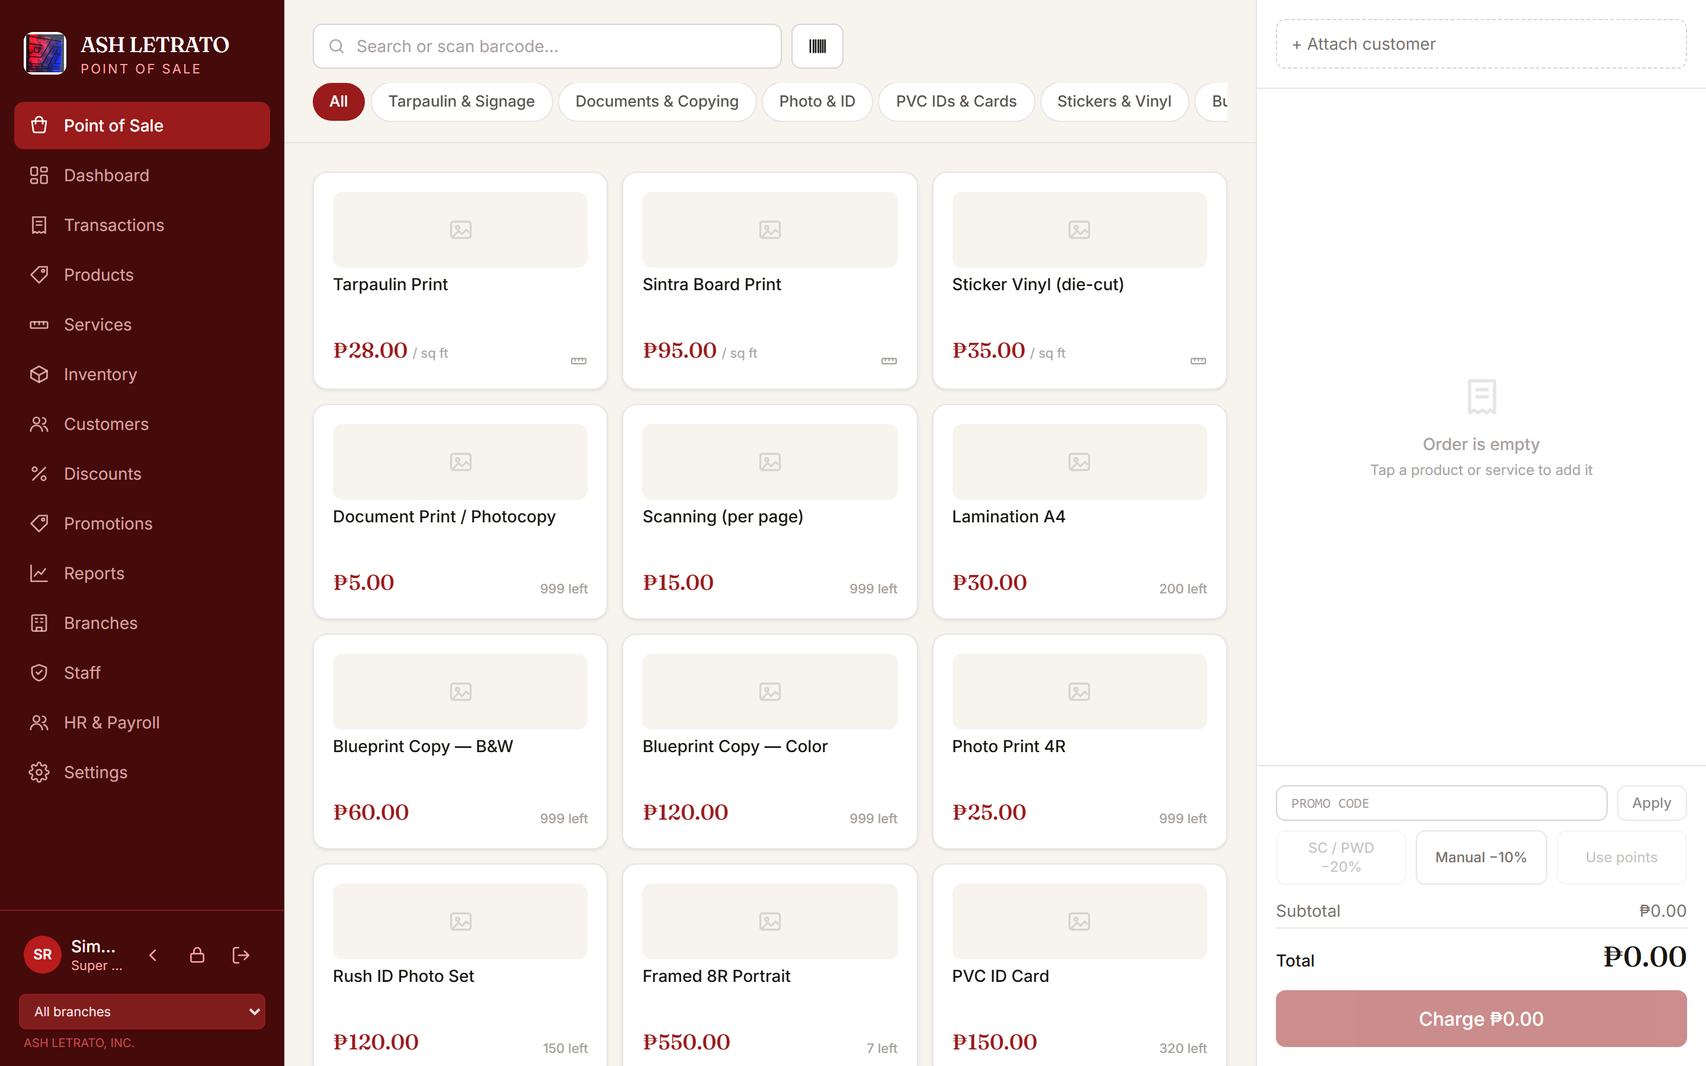
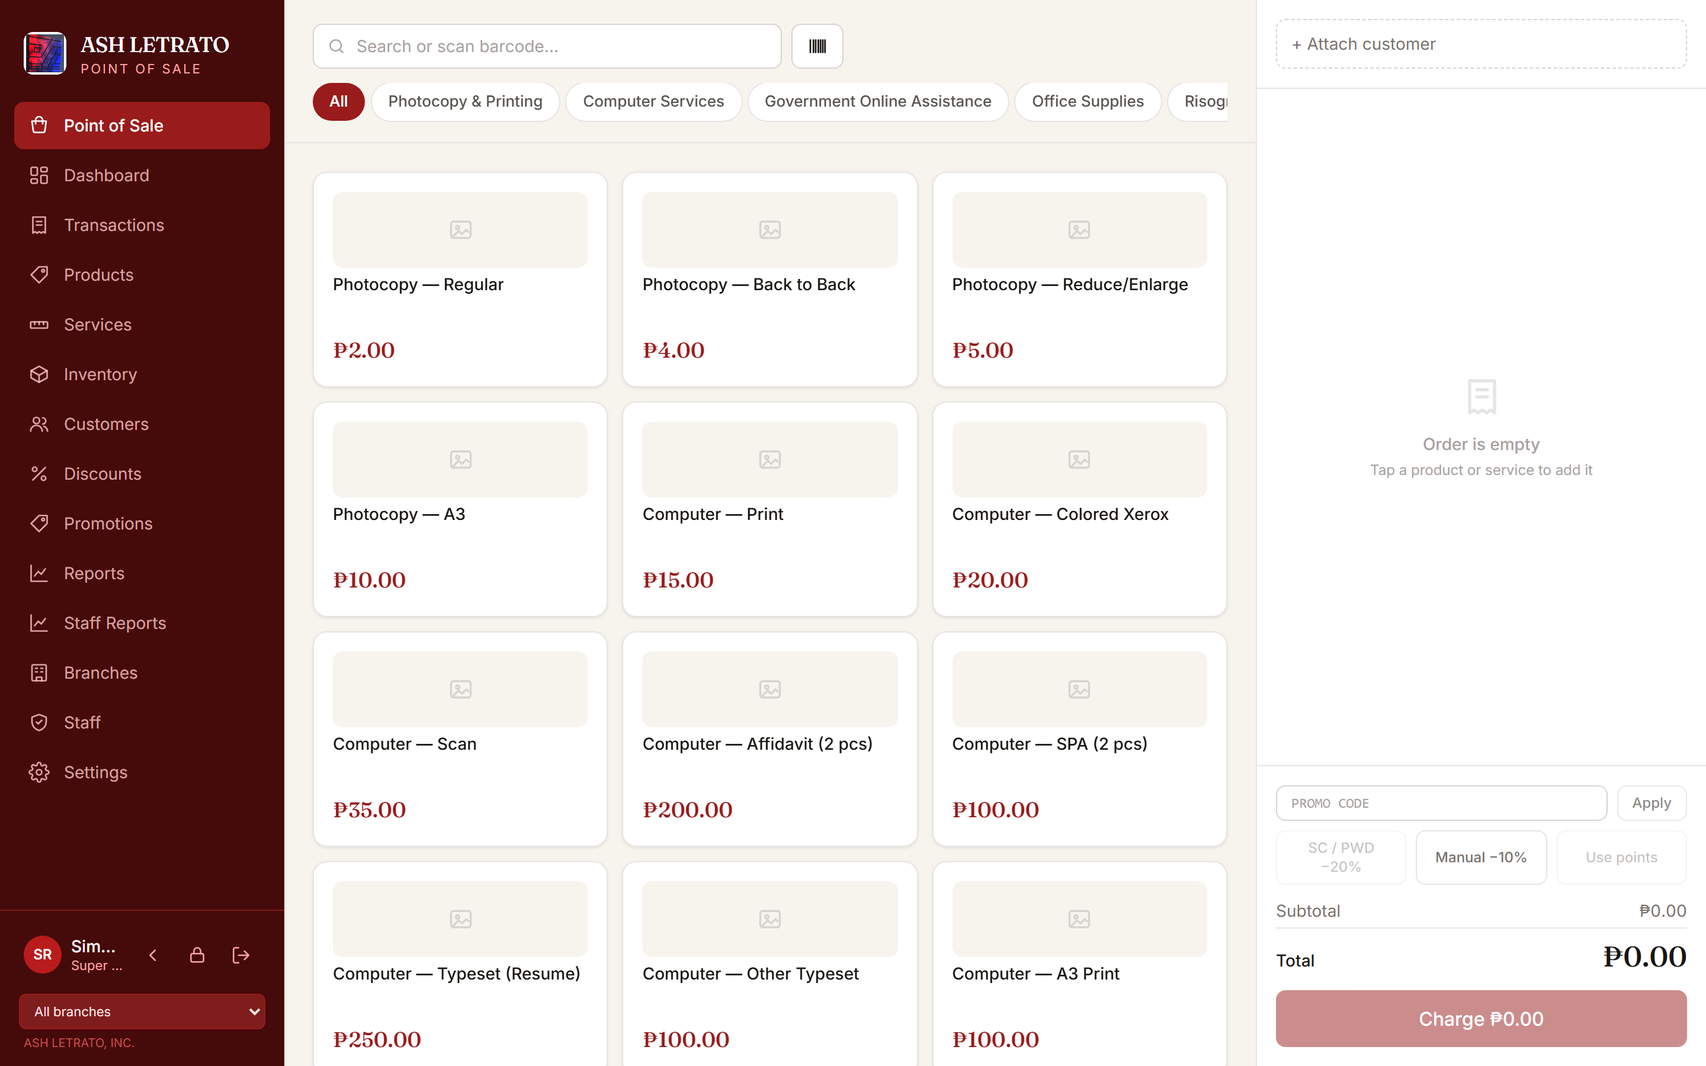
Correct the site details and refresh the screenshots
The homepage now lists Android 7.0 as the minimum (the app's minSdk is
24), shows all four staff PINs including Pia's, drops the stale v1.0
label, and marks Production as an optional module. The sample receipt
and the presentation's example copy use items from the owner's price
list. The presentation counts 14 modules and no longer describes
Production as always on. All 13 screenshots are recaptured from the
current build with sample data in a temporary browser profile.

Generated with [Devin](https://devin.ai)

diff --git a/presentation.html b/presentation.html
@@ -118,9 +118,9 @@
 <section class="slide center on" data-title="Title">
   <img class="logo-lg" src="icon.png" alt="ASH LETRATO logo" />
   <h1>ASH LETRATO <em>POS</em></h1>
-  <p class="tagline">A complete point-of-sale system for a digital printing business — register, inventory, production, and staff. Runs fully offline on the devices you already own.</p>
+  <p class="tagline">A complete point-of-sale system for a digital printing business — register, inventory, and staff. Runs fully offline on the devices you already own.</p>
   <div class="meta-row">
-    <span class="pill"><b>15</b> modules</span>
+    <span class="pill"><b>14</b> modules</span>
     <span class="pill"><b>3</b> platforms — Android · Windows · iOS</span>
     <span class="pill"><b>0</b> internet required</span>
     <span class="pill"><b>4</b> staff roles</span>
@@ -135,7 +135,7 @@
       <h2>Point of Sale</h2>
       <ul class="pts">
         <li><p><b>Sell in two taps</b> — touch catalog organized by category, with instant search and camera barcode scanning.</p></li>
-        <li><p><b>Area pricing built in</b> — tarpaulins, vinyl and boards bill by the square foot; sizes enter at the line.</p></li>
+        <li><p><b>Priced like a print shop</b> — per page, per ream, per set; quantities enter at the line.</p></li>
         <li><p><b>Every tender</b> — cash, GCash, Maya, card; discounts, loyalty redemption, and notary fees applied automatically.</p></li>
         <li><p><b>Made for shared counters</b> — staff sign in with a 4-digit PIN and the till auto-locks when idle.</p></li>
       </ul>
@@ -185,7 +185,7 @@
       <p class="k">Sellable goods</p>
       <h2>Products</h2>
       <ul class="pts">
-        <li><p><b>Merch with real stock</b> — mugs, shirts, totes track units left on the shelf.</p></li>
+        <li><p><b>Stock you can count</b> — pens, envelopes and folders track units left on the shelf.</p></li>
         <li><p><b>Barcodes &amp; photos</b> — every item can carry a code and an image for faster picking.</p></li>
         <li><p><b>Materials linked</b> — products can consume inventory automatically at sale time.</p></li>
       </ul>
@@ -201,9 +201,9 @@
       <p class="k">Billed work</p>
       <h2>Services</h2>
       <ul class="pts">
-        <li><p><b>Priced like a print shop thinks</b> — per square foot, per page, per set — not forced into unit pricing.</p></li>
-        <li><p><b>Consumption recipes</b> — a 4×6 tarp pulls vinyl and ink from stock the moment it sells.</p></li>
-        <li><p><b>Machine-tracked work</b> — punching and bind-prep jobs flow into Production for counting.</p></li>
+        <li><p><b>Priced like a print shop thinks</b> — per page, per ream, per set — not forced into unit pricing.</p></li>
+        <li><p><b>Consumption recipes</b> — a ream of bond paper pulls 500 sheets from stock the moment it sells.</p></li>
+        <li><p><b>Every job is a sale</b> — each billed service lands in the sales ledger with its own receipt line.</p></li>
       </ul>
     </div>
     <div class="shot"><img src="screenshots/services.png" alt="Services screen" /></div>
@@ -217,7 +217,7 @@
       <p class="k">Materials under control</p>
       <h2>Inventory</h2>
       <ul class="pts">
-        <li><p><b>Per-branch stock</b> — vinyl at Caloocan is not vinyl at Greenhills; each branch counts its own.</p></li>
+        <li><p><b>Per-branch stock</b> — bond paper at Caloocan is not bond paper at Greenhills; each branch counts its own.</p></li>
         <li><p><b>Transfers</b> — moving stock between branches is a logged, reversible operation.</p></li>
         <li><p><b>Stock counts</b> — physical counts write corrections automatically with a movement record.</p></li>
         <li><p><b>Movement ledger</b> — every sheet in and out is a row: who, what, why, where.</p></li>
@@ -355,17 +355,17 @@
   var NOTES = [
     // 1 — Title
     ['<p>Thanks for making time — I\'ll keep this practical and you\'ll see the real working app the whole way through, not slides of mockups.</p>',
-     '<p>This is ASH LETRATO POS — point of sale, production tracking, inventory, staff and reports in one system. It runs on what you already own: a tablet at the counter, a PC in the office, a phone in your pocket. Android app, Windows installer, iPhone/iPad app — same system, same data format.</p>',
-     '<p>Three things to hold onto through the demo: <strong>it works fully offline</strong> — brownout or dead wifi, the till keeps selling. <strong>It\'s built for a print shop</strong> — services priced per square foot, per page, per set, not just canned goods. And <strong>every action has a name on it</strong> — nothing happens anonymously.</p>',
+     '<p>This is ASH LETRATO POS — point of sale, inventory, staff and reports in one system. It runs on what you already own: a tablet at the counter, a PC in the office, a phone in your pocket. Android app, Windows installer, iPhone/iPad app — same system, same data format.</p>',
+     '<p>Three things to hold onto through the demo: <strong>it works fully offline</strong> — brownout or dead wifi, the till keeps selling. <strong>It\'s built for a print shop</strong> — services priced per page, per ream, per set, not just canned goods. And <strong>every action has a name on it</strong> — nothing happens anonymously.</p>',
      '<p><em>Ask before moving on:</em> "Quick one before I dive in — how are you ringing up sales today, and what\'s the most annoying part of it?" — then refer back to their answer at the relevant slide.</p>'],
     // 2 — POS
     ['<p>This is the screen your staff will touch a hundred times a day, so it\'s designed for fingers: big product tiles, big buttons, everything reachable with a thumb on a tablet held at the counter.</p>',
-     '<p>Selling a service: tap Tarpaulin, type width and height — say 4 by 6 feet — and the price computes itself at your per-square-foot rate. No calculator, no price chart taped to the wall. Photocopying works the same way per page; ID packages per set.</p>',
-     '<p>For barcoded goods — mugs, shirts, packaged items — the tablet\'s camera is the scanner. No extra hardware to buy. Scan and it lands in the cart.</p>',
+     '<p>Selling a service: tap Photocopy, type the pages and copies — say 120 pages — and the price computes itself at your per-page rate. No calculator, no price chart taped to the wall. Bond paper is priced per ream; ID packages per set.</p>',
+     '<p>For barcoded goods — pens, folders, packaged items — the tablet\'s camera is the scanner. No extra hardware to buy. Scan and it lands in the cart.</p>',
      '<p>At payment: cash with automatic change computation and quick-tap bill amounts, plus GCash, Maya and card. Discounts — senior, PWD, promo codes — apply here with the correct math built in.</p>',
      '<p>And when staff step away, the register locks itself after a set time and needs that person\'s PIN to reopen — so the till is never left open under someone else\'s name.</p>'],
     // 3 — Dashboard
-    ['<p>This is what you check with morning coffee: today\'s revenue, transaction count and average ticket; the last seven days as a trend line so you see direction at a glance; your top products ranked; and anything running low on stock — all on one screen.</p>',
+    ['<p>This is what you check with morning coffee: today\'s revenue and transaction count; the last seven days as a trend line so you see direction at a glance; your top products ranked; and anything running low on stock — all on one screen.</p>',
      '<p>Everything here is live — ring a sale at the register and this chart moves. There\'s no end-of-day report to wait for, nothing to export first.</p>',
      '<p>And it\'s branch-aware: if you have three locations, the owner flips between branches or sees all of them at once, while a branch manager only ever sees their own shop\'s numbers.</p>',
      '<p><em>If they ask "is this real data?"</em> — yes, everything in this demo is the actual app running, and the numbers update as transactions happen.</p>'],
@@ -374,15 +374,15 @@
      '<p>Now the part that protects you: a cashier cannot void or refund a sale alone. The app demands a supervisor\'s PIN on the spot, and the transaction record permanently shows who approved it and why. That\'s the classic way register money leaks — fake voids — and it\'s closed off.</p>',
      '<p>When a refund does happen, it\'s complete: the stock goes back on the shelf, materials are restored to inventory, the customer\'s loyalty points come back, and the audit trail records the whole thing. A voided sale can\'t be refunded a second time — the system won\'t allow the double-count.</p>'],
     // 5 — Products
-    ['<p>Your sellable goods — mugs, shirts, tote bags, supplies — each with photo, price, barcode, and a real stock count that decrements as items sell.</p>',
-     '<p>Two details worth noting: stock is tracked per branch, so Caloocan\'s shelf count is its own; and a product can be wired to consume raw materials when it sells — sell a printed mug and the blank mug plus the vinyl come off inventory automatically.</p>',
+    ['<p>Your sellable goods — pens, folders, envelopes, supplies — each with photo, price, barcode, and a real stock count that decrements as items sell.</p>',
+     '<p>Two details worth noting: stock is tracked per branch, so Caloocan\'s shelf count is its own; and a product can be wired to consume raw materials when it sells — sell an envelope and the envelope comes off inventory automatically.</p>',
      '<p>Photos make the register visual — new staff find items by picture instead of memorizing a price list.</p>'],
     // 6 — Services
-    ['<p>This is where the system stops being a generic store. Print shops bill by measurement, so services price the way you actually charge: per square foot for tarpaulins and vinyl stickers, per page for photocopying and printing, per set for ID packages, or flat rates where it applies.</p>',
-     '<p>The powerful part is the recipe behind each service. A tarpaulin knows it consumes X square feet of vinyl plus Y ml of ink. Ring up a 4×6 tarp and those exact materials leave inventory automatically — you stop guessing what a job actually cost in materials.</p>',
+    ['<p>This is where the system stops being a generic store. Print shops bill by measurement, so services price the way you actually charge: per page for photocopying and printing, per ream for bond paper, per set for ID packages, or flat rates where it applies.</p>',
+     '<p>The powerful part is the recipe behind each service. A ream of bond paper knows it consumes 500 sheets. Ring up a ream and exactly 500 sheets leave inventory automatically — you stop guessing what a job actually cost in materials.</p>',
      '<p>Change a material\'s cost or a rate and every future quote uses the new math. Your pricing logic lives in one place instead of in someone\'s head.</p>'],
     // 8 — Inventory
-    ['<p>Raw materials — vinyl rolls, ink, boards, PVC sheets, packaging — tracked per branch with live balances. Caloocan\'s stock is fully separate from Greenhills\'.</p>',
+    ['<p>Raw materials — bond paper, envelopes, folders, pens — tracked per branch with live balances. Caloocan\'s stock is fully separate from Greenhills\'.</p>',
      '<p>Four ways stock moves, all built in: receiving new supply, automatic consumption when services and products sell, logged transfers between branches, and physical stock counts — you enter what\'s actually on the shelf and the system writes the correction itself.</p>',
      '<p>Every single movement is a permanent line in the ledger: what moved, how much, who did it, when. There\'s no "adjustments" black hole — shrinkage has to show itself somewhere.</p>'],
     // 9 — Customers
@@ -394,11 +394,11 @@
      '<p>Each code has guardrails — valid date range, minimum spend, usage cap — so a promo can\'t be applied outside its window or abused past its budget.</p>',
      '<p>At the till the cashier just types the code; the discount applies itself and the usage counter ticks up. After the campaign you can see exactly how many times it was used and what it cost you — so the next promo is a decision, not a guess.</p>'],
     // 11 — Reports
-    ['<p>This is where the numbers turn into decisions. Pick any period — today, last week, a custom range — and it\'s compared against the period before it, so you see whether you\'re trending up or down, not just a static total.</p>',
+    ['<p>This is where the numbers turn into decisions. Pick any period — today, the last 7 or 30 days, or a custom range — and it\'s compared against the period before it, so you see whether you\'re trending up or down, not just a static total.</p>',
      '<p>Breakdowns by branch show which location earns and which coasts; top products and services show what to push; payment-method totals show how customers actually pay.</p>',
-     '<p>Everything exports to Excel in one click — that\'s what your accountant gets at month-end, no re-typing. And underneath the charts sits the audit log: every void, refund, discount override, price change and PIN-verified action with a name and timestamp. When something looks off, this is where the answer lives.</p>'],
+     '<p>Everything exports to Excel in one click — that\'s what your accountant gets at month-end, no re-typing. And underneath the charts sits the audit log: every void, refund, stock transfer, stock adjustment and staff access change, with a name and timestamp. When something looks off, this is where the answer lives.</p>'],
     // 12 — Staff & Roles
-    ['<p>Four roles, and they\'re enforced — not just hidden menus. The owner sees everything. A manager runs the floor but can\'t touch staff accounts or system settings. A cashier gets the register, transactions and customers — nothing else. A handler gets the register and production — for staff who run machines but don\'t need the books.</p>',
+    ['<p>Four roles, and they\'re enforced — not just hidden menus. The owner sees everything. A manager runs the floor but can\'t touch staff accounts or system settings. A cashier gets the register, transactions and customers — nothing else. A handler gets the register — for staff who run the till but don\'t need the books.</p>',
      '<p>Here\'s the key for multi-branch owners: every staff login is bound to their branch. A Caloocan cashier literally cannot see Greenhills\' sales — typing the URL doesn\'t work, the route itself refuses them. Only the owner flips between locations.</p>',
      '<p>Security details: PINs are brute-force protected — five wrong attempts locks the account progressively up to fifteen minutes, and that lockout survives closing and reopening the app. Supervisory actions like voids and refunds always demand a supervisor\'s own PIN, on the record.</p>'],
     // 14 — Branches
@@ -406,14 +406,14 @@
      '<p>As the owner, your sidebar has a branch switcher: flip to Caloocan and every screen — dashboard, sales, stock, reports — shows Caloocan\'s world; flip to "All branches" and you see the combined picture.</p>',
      '<p>Open a fourth location? Add it here, create its staff, transfer it some starting stock — it\'s operating the same day with nothing new to install.</p>'],
     // 15 — Settings
-    ['<p>Your business rules, not ours: receipt header and TIN for compliant receipts, VAT rate, senior and PWD discount percentages, loyalty earn and redeem rates, auto-lock timing, machine list.</p>',
+    ['<p>Your business rules, not ours: receipt header and TIN for compliant receipts, VAT rate, senior and PWD discount percentages, loyalty earn and redeem rates, auto-lock timing, and the Production module on or off.</p>',
      '<p>The part that matters for your future: one click exports everything — products, customers, full sales history, staff, settings — to a single file. Restore it on another device and that device is up and running. Your data is yours; there\'s no lock-in, and when you\'re ready to grow into a cloud setup later, the data moves with you instead of starting over.</p>',
      '<p><em>If they ask "where does my data live?"</em> — on the device itself, fully private to your shop, with exports you control. Nothing is sent anywhere.</p>'],
     // 16 — Closing
-    ['<p>That\'s the whole loop: register, production floor, stockroom and back office — one system, working offline, on devices you already own.</p>',
+    ['<p>That\'s the whole loop: register, stockroom and back office — one system, working offline, on devices you already own.</p>',
      '<p>It\'s live right now — owner login on screen, or hand the tablet over and let a staff member try their own PIN. Everything you saw today is the actual running system.</p>',
      '<p>On practicalities: it installs in minutes on a tablet or PC, needs no special hardware — the camera is the barcode scanner — and updates roll out to every device automatically as the system improves.</p>',
-     '<p><em>Close with:</em> "Which part would you want running in your shop first — the register or the production tracking? We can set it up with a real order while we\'re here." — then stay quiet and let them answer.</p>']
+     '<p><em>Close with:</em> "Which part would you want running in your shop first — the register or the inventory? We can set it up with a real order while we\'re here." — then stay quiet and let them answer.</p>']
   ];
 
   var slides = document.querySelectorAll('.slide');

diff --git a/index.html b/index.html
@@ -213,9 +213,9 @@
 <header id="top">
   <div class="wrap hero">
     <div>
-      <p class="kicker">Free demo build · v1.0</p>
+      <p class="kicker">Free demo build</p>
       <h1>Your whole shop,<br/>in <em>one till.</em></h1>
-      <p class="sub">Point of sale, inventory, production tickets, and staff reports — running fully offline on your devices. No internet, no subscription, no waiting.</p>
+      <p class="sub">Point of sale, inventory, staff reports, and optional production tickets — running fully offline on your devices. No internet, no subscription, no waiting.</p>
       <div class="cta-row">
         <a class="btn" id="hero-dl" href="https://github.com/las-qwerty/ash-letrato-pos/releases/download/android-latest/ASH-LETRATO-POS.apk">
           <svg viewBox="0 0 24 24"><path d="M12 3v10.6l3.3-3.3 1.4 1.4-5.7 5.7-5.7-5.7 1.4-1.4L11 13.6V3zM5 19h14v2H5z"/></svg>
@@ -272,7 +272,7 @@
           <svg viewBox="0 0 24 24"><path d="M6 2h12a2 2 0 0 1 2 2v16a2 2 0 0 1-2 2H6a2 2 0 0 1-2-2V4a2 2 0 0 1 2-2zm6 18.5a1.25 1.25 0 1 0 0-2.5 1.25 1.25 0 0 0 0 2.5zM8 4.5h8V17H8z"/></svg>
           <h3>Android</h3><span class="rec">for your device</span>
         </div>
-        <p class="meta"><b>ASH-LETRATO-POS.apk</b><br/>Android 8.0+ · phones &amp; tablets<br/>Camera barcode scanning built in<br/><span class="size">35 MB · updates itself over the air</span></p>
+        <p class="meta"><b>ASH-LETRATO-POS.apk</b><br/>Android 7.0+ · phones &amp; tablets<br/>Camera barcode scanning built in<br/><span class="size">35 MB · updates itself over the air</span></p>
         <a class="btn" href="https://github.com/las-qwerty/ash-letrato-pos/releases/download/android-latest/ASH-LETRATO-POS.apk">
           <svg viewBox="0 0 24 24"><path d="M12 3v10.6l3.3-3.3 1.4 1.4-5.7 5.7-5.7-5.7 1.4-1.4L11 13.6V3zM5 19h14v2H5z"/></svg>
           Download APK
@@ -308,7 +308,7 @@
     <div class="cred-row reveal">
       <span class="k">Owner</span> <code>admin@ashletrato.com</code><button class="copy" data-copy="admin@ashletrato.com">copy</button>
       <span class="k">Password</span> <code>letrato123</code><button class="copy" data-copy="letrato123">copy</button>
-      <span class="k">Staff PINs</span> <code>2468 · 1357 · 1122</code>
+      <span class="k">Staff PINs</span> <code>2468 · 1357 · 1122 · 8899</code>
       <span class="k">Seed data</span> <a href="downloads/ash-letrato-pos-backup.json" download>Backup.json</a>
     </div>
   </section>
@@ -362,9 +362,9 @@
     </div>
     <ul class="feats reveal">
       <li><b>Register</b>Touch POS, barcode scanning, area pricing, discounts, receipts, voids &amp; refunds</li>
-      <li><b>Receipt printing</b>Auto-print after every sale, selectable 58/72/80&nbsp;mm paper widths, silent kiosk printing on Windows</li>
+      <li><b>Receipt printing</b>Auto-print after every sale, selectable 58/72/80&nbsp;mm paper widths, printing to your default printer on Windows</li>
       <li><b>Inventory</b>Branches, transfers, stock counts, movement ledger, low-stock alerts</li>
-      <li><b>Production</b>Job tickets, machine counters, punching reconciliation, waste tracking</li>
+      <li><b>Production</b>Optional module, turned on in Settings: job tickets, machine counters, punching reconciliation, waste tracking</li>
       <li><b>Reports</b>Sales charts, period comparison, Excel exports, audit trail</li>
       <li><b>Offline first</b>No internet required — cloud sync can be added later</li>
     </ul>
@@ -451,11 +451,11 @@
 
   /* ---------- receipt ---------- */
   var LINES = [
-    ['A4 Photocopy x20', '₱60.00'],
-    ['PVC ID - Employee', '₱150.00'],
-    ['Lamination - A4', '₱40.00'],
-    ['Notary Service', '₱100.00'],
-    ['Notary fee', '₱1.00']
+    ['Photocopy — Regular x20', '₱40.00'],
+    ["Gov't — NBI", '₱100.00'],
+    ['Computer — Typeset (Resume) x2', '₱500.00'],
+    ['Office — Bond Short (per ream)', '₱280.00'],
+    ['Office — Fastener (per piece) x10', '₱20.00']
   ];
   var linesEl = document.getElementById('r-lines');
   var totalEl = document.getElementById('r-total');
@@ -511,7 +511,7 @@
     ['dashboard', 'Dashboard', 'Live sales chart, top products, low stock — the morning pulse check'],
     ['sales', 'Transactions', 'Every sale, void and refund with receipts and an audit trail'],
     ['products', 'Products', 'Sellable goods with stock counts, barcodes, and category grouping'],
-    ['services', 'Services', 'Area-priced print work — tarpaulins, vinyl, blueprints'],
+    ['services', 'Services', "Priced per page, per ream, and per set — photocopy, computer printing, gov't forms"],
     ['production', 'Production', 'Job tickets, machine counters, and end-of-shift reconciliation'],
     ['inventory', 'Inventory', 'Per-branch stock, transfers, counts, and a movement ledger'],
     ['customers', 'Customers', 'Loyalty tiers, points, senior/PWD discounts, purchase history'],
